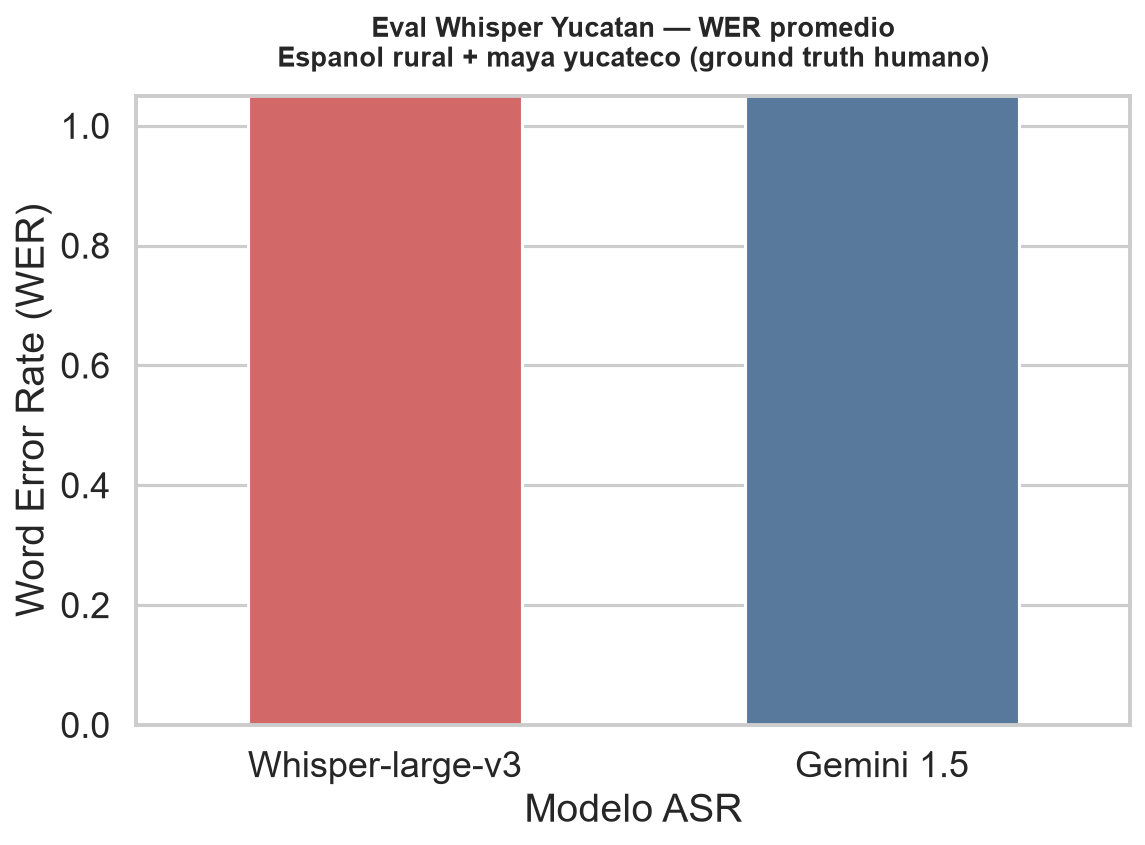
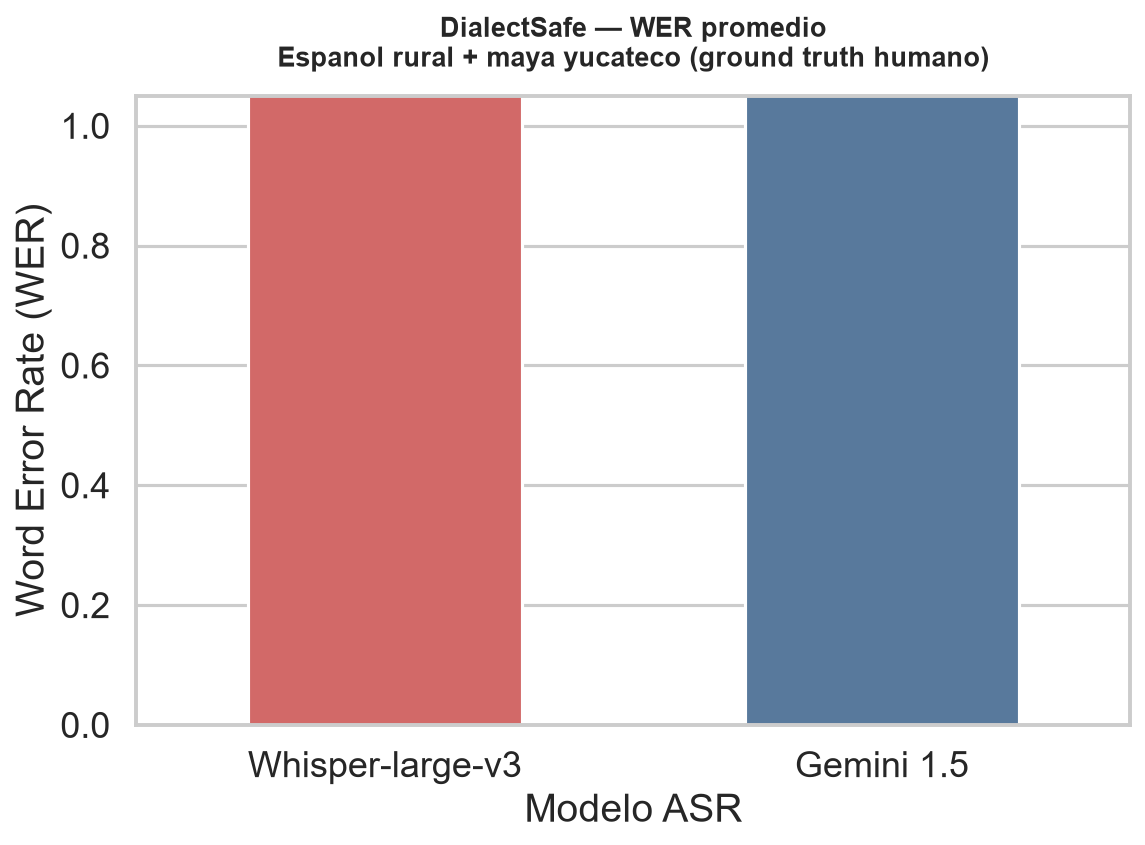
Rename project to DialectSafe: Bridging the ASR Gap
Se reemplaza el nombre interno 'Eval Whisper Yucatan' por
'DialectSafe: Bridging the ASR Gap' en todos los archivos del proyecto:

- README.md       — título principal
- draft_submission.md — título del paper y referencias en Abstract y Conclusión
- analisis_comparativo.py — docstring, título de gráfica y header de consola
- comparar_transcripciones.py — docstring
- comparativa_wer.png — gráfica regenerada con nuevo nombre del proyecto

Changed region(s): [[0.3057, 0.0, 0.7948, 0.0615]]

diff --git a/analisis_comparativo.py b/analisis_comparativo.py
@@ -1,6 +1,6 @@
 #!/usr/bin/env python3
 """
-Eval Whisper Yucatan — Benchmark determinista Whisper vs. Gemini 1.5
+DialectSafe: Bridging the ASR Gap — Benchmark determinista Whisper vs. Gemini
 ====================================================================
 Compara transcripciones automaticas contra ground truth humano y cuantifica:
   - WER y CER (jiwer)
@@ -284,7 +284,7 @@ def save_wer_chart(results_df: pd.DataFrame) -> None:
     )
 
     ax.set_title(
-        "Eval Whisper Yucatan — WER promedio\n"
+        "DialectSafe — WER promedio\n"
         "Espanol rural + maya yucateco (ground truth humano)",
         fontsize=13,
         fontweight="bold",
@@ -386,7 +386,7 @@ def save_typology_chart(results_df: pd.DataFrame) -> None:
 def print_summary(results_df: pd.DataFrame) -> None:
     n = len(results_df)
     print("\n" + "=" * 68)
-    print("EVAL WHISPER YUCATAN — BENCHMARK DETERMINISTA")
+    print("DIALECTSAFE — BENCHMARK DETERMINISTA")
     print("=" * 68)
     print(f"Audios evaluados       : {n}")
     print(f"WER promedio Whisper   : {results_df['WER_Whisper'].mean():.1%}")

diff --git a/comparar_transcripciones.py b/comparar_transcripciones.py
@@ -1,6 +1,6 @@
 #!/usr/bin/env python3
 """
-Comparación referencia vs. Whisper (Colab) — Eval Whisper Yucatan
+Comparación referencia vs. Whisper (Colab) — DialectSafe
 ================================================================
 Cuantifica errores de transcripción comparando la referencia humana
 (transcripción de la conversación en español yucateco/rural) contra

diff --git a/draft_submission.md b/draft_submission.md
@@ -1,12 +1,12 @@
-# Eval Whisper Yucatan: A Deterministic Benchmark of Digital Deafness in Whisper vs. Gemini on Rural Yucatecan and Mayan-Contact Speech
+# DialectSafe: Bridging the ASR Gap — A Deterministic Benchmark of Digital Deafness in Whisper vs. Gemini on Rural Yucatecan and Mayan-Contact Speech
 
 **Authors:** Equipo ZINT (Global South AI Safety Hackathon, June 2026)
 
-**Code and Data:** [Eval_Whisper_Yucatan](https://github.com/robertobalmessol1s/Global-south-hackathonAI-safety-Equipo-ZINT) — 15 field audio samples (`Audio1.mpeg`–`Audio15.mpeg`), human ground truth in `transcripciones_oficiales/`
+**Code and Data:** [DialectSafe](https://github.com/robertobalmessol1s/Global-south-hackathonAI-safety-Equipo-ZINT) — 15 field audio samples (`Audio1.mpeg`–`Audio15.mpeg`), human ground truth in `transcripciones_oficiales/`
 
 ## Abstract
 
-Automatic speech recognition (ASR) systems are deployed globally, yet they are rarely evaluated on oral narratives from hyper-rural Yucatán where Spanish coexists with Mayan languages (Yucatec Maya, Ch'ol, Wixárika contact varieties, and community-specific lexicon). We present **Eval Whisper Yucatan**, a reproducible deterministic benchmark comparing **Whisper-large-v3** (Groq) against **Gemini 2.5 Flash** (Google AI Studio, `temperature=0`, `seed=42`) on 15 audio clips paired with human-authored reference transcripts. Using `jiwer`, we compute word error rate (WER), error typology (substitutions, deletions, insertions), and error-reduction percentage. Across 15 samples, **both models fail catastrophically**: median WER is **99.1%** (Whisper) and **140.0%** (Gemini). Whisper exhibits **digital deafness** through mass deletions (338 omitted words) and repetitive generic-Spanish hallucinations (*"¿Qué haces?"* loops). Gemini produces more Mayan-contact text when prompted as a Yucatecan linguist and commits **fewer deletions** (173), but suffers extreme **insertion hallucinations** on 2/15 files (Audio3, Audio9), inflating mean WER to 5,943%. Gemini wins on WER in **5/15** samples; Whisper wins in **10/15**. Our hypothesis—that peripheral dialect speech is systematically misrecognized—is **strongly supported**; the secondary hypothesis that Gemini uniformly outperforms Whisper is **not supported** at aggregate level, though Gemini shows localized gains on Maya-rich segments. We release `analisis_comparativo.py`, `resultados_finales_benchmark.csv`, and Figures 1–2 for replication.
+Automatic speech recognition (ASR) systems are deployed globally, yet they are rarely evaluated on oral narratives from hyper-rural Yucatán where Spanish coexists with Mayan languages (Yucatec Maya, Ch'ol, Wixárika contact varieties, and community-specific lexicon). We present **DialectSafe: Bridging the ASR Gap**, a reproducible deterministic benchmark comparing **Whisper-large-v3** (Groq) against **Gemini 2.5 Flash** (Google AI Studio, `temperature=0`, `seed=42`) on 15 audio clips paired with human-authored reference transcripts. Using `jiwer`, we compute word error rate (WER), error typology (substitutions, deletions, insertions), and error-reduction percentage. Across 15 samples, **both models fail catastrophically**: median WER is **99.1%** (Whisper) and **140.0%** (Gemini). Whisper exhibits **digital deafness** through mass deletions (338 omitted words) and repetitive generic-Spanish hallucinations (*"¿Qué haces?"* loops). Gemini produces more Mayan-contact text when prompted as a Yucatecan linguist and commits **fewer deletions** (173), but suffers extreme **insertion hallucinations** on 2/15 files (Audio3, Audio9), inflating mean WER to 5,943%. Gemini wins on WER in **5/15** samples; Whisper wins in **10/15**. Our hypothesis—that peripheral dialect speech is systematically misrecognized—is **strongly supported**; the secondary hypothesis that Gemini uniformly outperforms Whisper is **not supported** at aggregate level, though Gemini shows localized gains on Maya-rich segments. We release `analisis_comparativo.py`, `resultados_finales_benchmark.csv`, and Figures 1–2 for replication.
 
 ## 1. Introduction
 
@@ -201,7 +201,7 @@ Policy-relevant findings:
 
 ## 6. Conclusion
 
-We built and executed **Eval Whisper Yucatan**, a deterministic benchmark of Whisper-large-v3 vs. Gemini 2.5 Flash on 15 rural Yucatecan and Mayan-contact audio samples with human ground truth. **Both models fail catastrophically** (median WER ~99–140%), confirming **digital deafness** as a first-order AI safety issue for the Global South. Whisper primarily **omits and genericizes**; Gemini **sometimes captures Maya-contact forms** but can **hallucinate massive insertion loops**. Aggregate superiority of Gemini is **not established**; localized gains are real but fragile. We release code, CSVs, and figures to support replication and corpus expansion.
+We built and executed **DialectSafe: Bridging the ASR Gap**, a deterministic benchmark of Whisper-large-v3 vs. Gemini 2.5 Flash on 15 rural Yucatecan and Mayan-contact audio samples with human ground truth. **Both models fail catastrophically** (median WER ~99–140%), confirming **digital deafness** as a first-order AI safety issue for the Global South. Whisper primarily **omits and genericizes**; Gemini **sometimes captures Maya-contact forms** but can **hallucinate massive insertion loops**. Aggregate superiority of Gemini is **not established**; localized gains are real but fragile. We release code, CSVs, and figures to support replication and corpus expansion.
 
 ## Code and Data
 

diff --git a/README.md b/README.md
@@ -1,4 +1,4 @@
-# Eval Whisper Yucatan — Equipo ZINT
+# DialectSafe: Bridging the ASR Gap — Equipo ZINT
 
 **Global South AI Safety Hackathon**
 